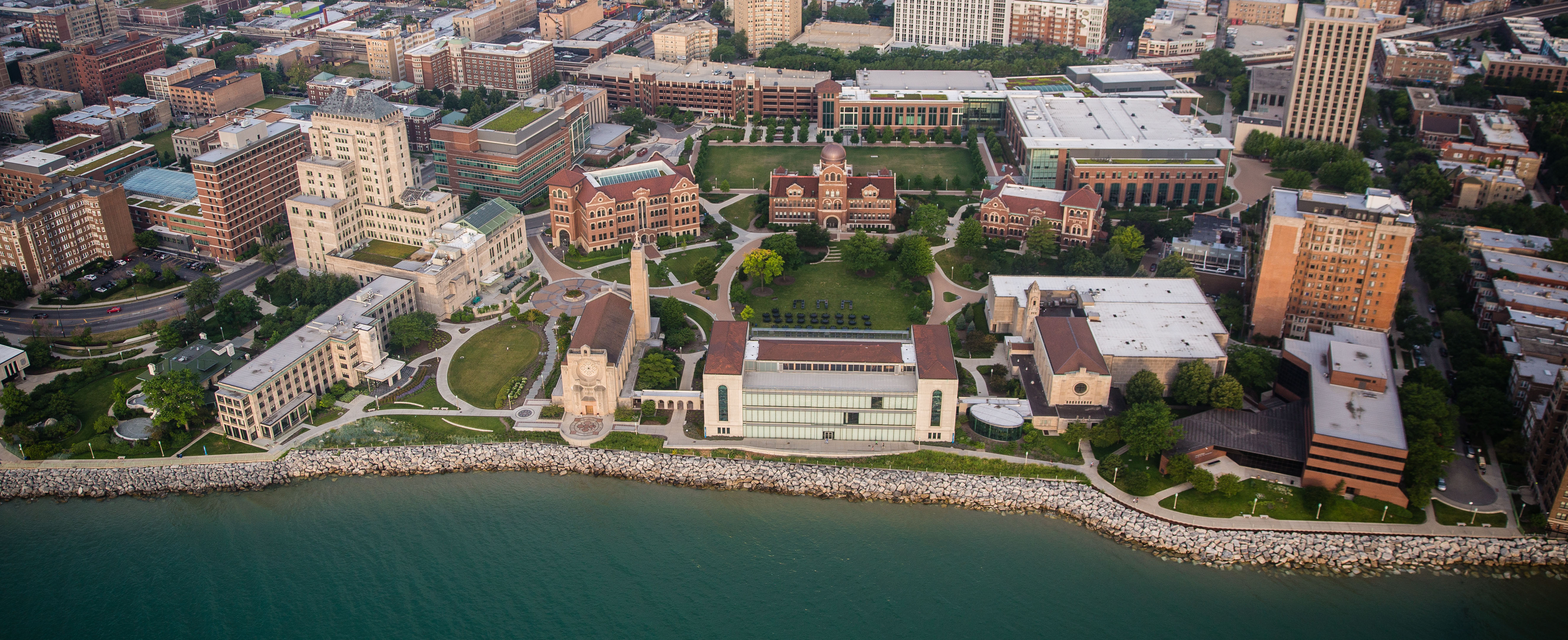
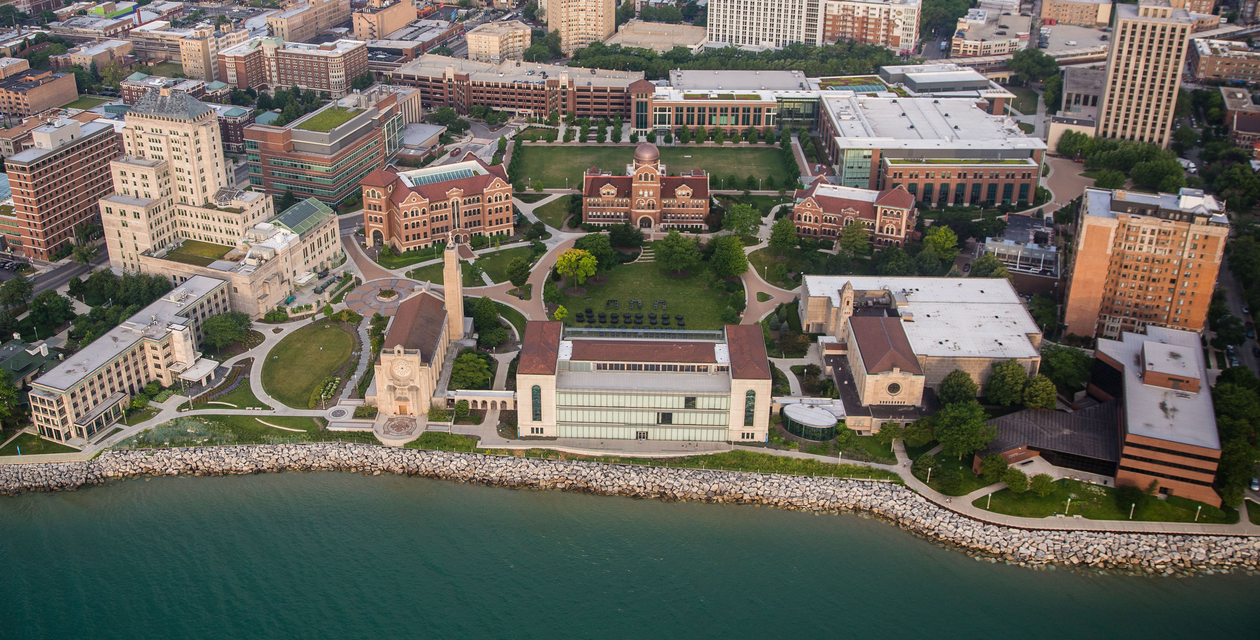
updating about and styling

diff --git a/index.html b/index.html
@@ -55,23 +55,34 @@
     </div>
     <!-- End Home Section -->
 
+    <!-- Start About Section -->
     <div id="about" class="offset">
-  <div class="container">
-    <!-- <h1 class=heading>About Me</h1> -->
-    <div class="col-12">
-      <h1 class="ame-heading text-center">About CS-STAC</h1>
-      <div class="heading-underline"></div>
-    </div>
-    <div class="row">
-      <div class="col-lg text-center">
-        <p>Lorem ipsum dolor sit amet, eam diceret fuisset ut, recusabo antiopam cu vix. Sea agam molestie cu. Cu vix illum phaedrum ullamcorper, his habemus oportere quaerendum no, debet fuisset ut quo. Cum eu exerci suavitate, at pri natum doctus, sale doming aperiam sea in. Sea populo fastidii invenire ut, dicit saepe nonumy vis id, maiestatis instructior quo eu. Cum nulla fabellas reformidans eu.
-
-Sed id gloriatur consequuntur. An nonumy debitis quo. Vidisse laoreet eu his, sit meliore mediocrem te. Vix no hinc discere, est ferri persequeris ea, lorem debet ei cum. Pro mutat accusata no.</p>
+      <div class="container">
+        <div class="col-12">
+          <h1 class="ame-heading text-center">About CS-STAC</h1>
+          <div class="heading-underline"></div>
+        </div>
+        <div class="row">
+          <div class="col-lg text-center">
+            <p>CS-STAC is Loyola University of Chicago’s Computer Science Student Advisory Council. Our primary purpose is to serve undergraduate and graduate students by responding to student feedback, bettering the Computer Science department, and communicating with faculty and administration. The council consists of 12 members, with representation ranging from freshmen to graduate students. New members will be appointed each year by the existing council to replace graduating members. For more information about CS-STAC procedures and tasks, please refer to the charter.
+            </p>
+          </div>
+        </div>
       </div>
     </div>
-  </div>
 
-</div>
+  <!-- Start Content Section -->
+    <div id="content" class="offset">
+      <div class="jumbotron">
+        <div class="narrow">
+          <div class="col-12">
+            <h3 class="heading">CS-STAC Content</h3>
+            <div class="heading-underline"></div>
+          </div>
+        </div>
+      </div>
+    </div>
+    <!-- End Content Section -->
 
     <!-- Script Source Files -->
     <script src="js/jquery-3.3.1.min.js"></script>

diff --git a/style/style.css b/style/style.css
@@ -42,8 +42,6 @@ body {
 
 .home-inner {
   background-image: url(luc.jpg)!important;
-  background-size: cover;
- background-repeat: no-repeat;
 }
 
 .caption {
@@ -91,4 +89,14 @@ body {
 .row {
   margin-top: -2rem;
   color: black;
+  font-size: 1.2rem;
+}
+
+.heading {
+  text-align: center;
+  color: black!important;
+}
+
+.jumbotron {
+  background-color: rgb(220,220,220);
 }
